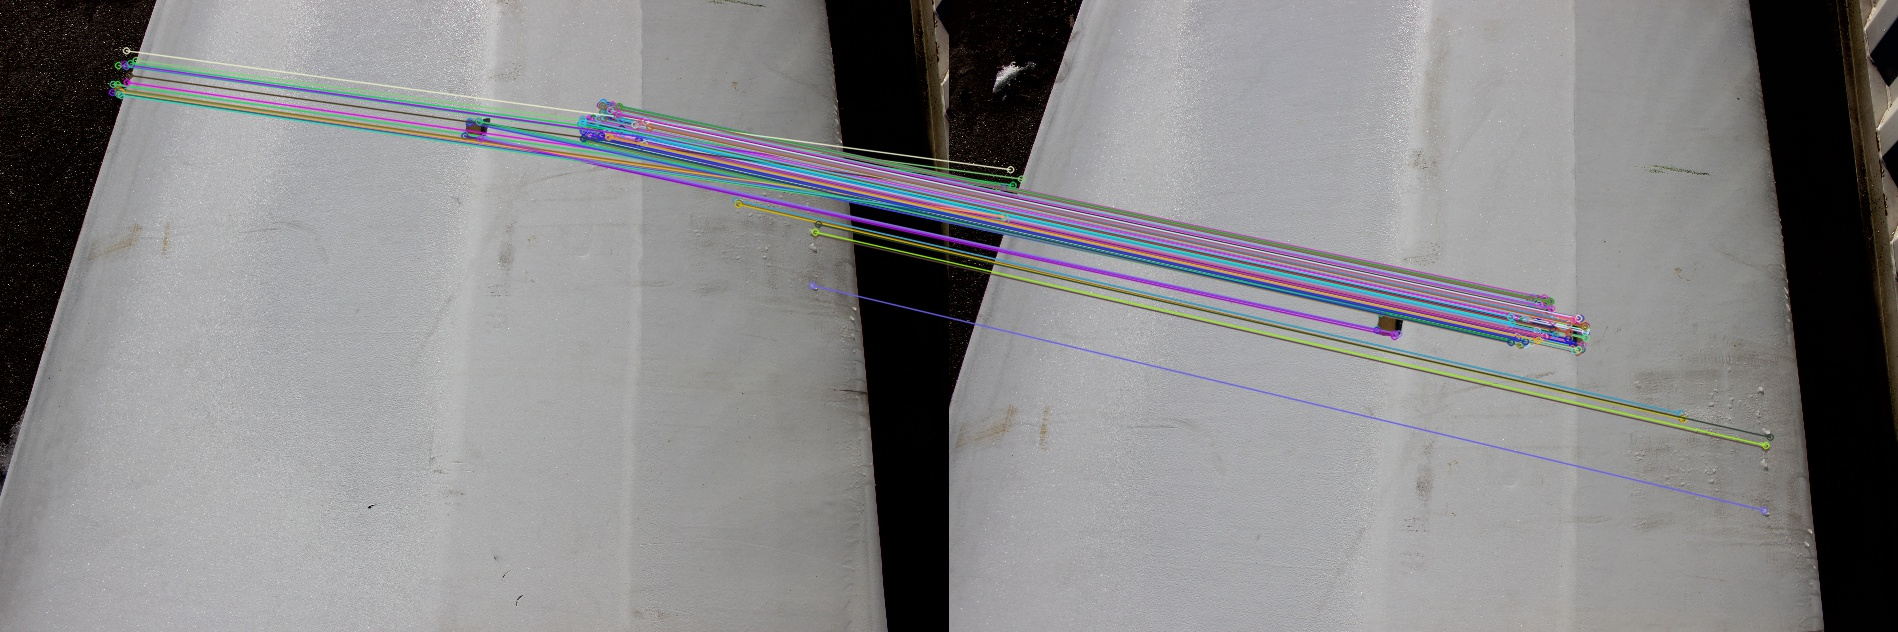
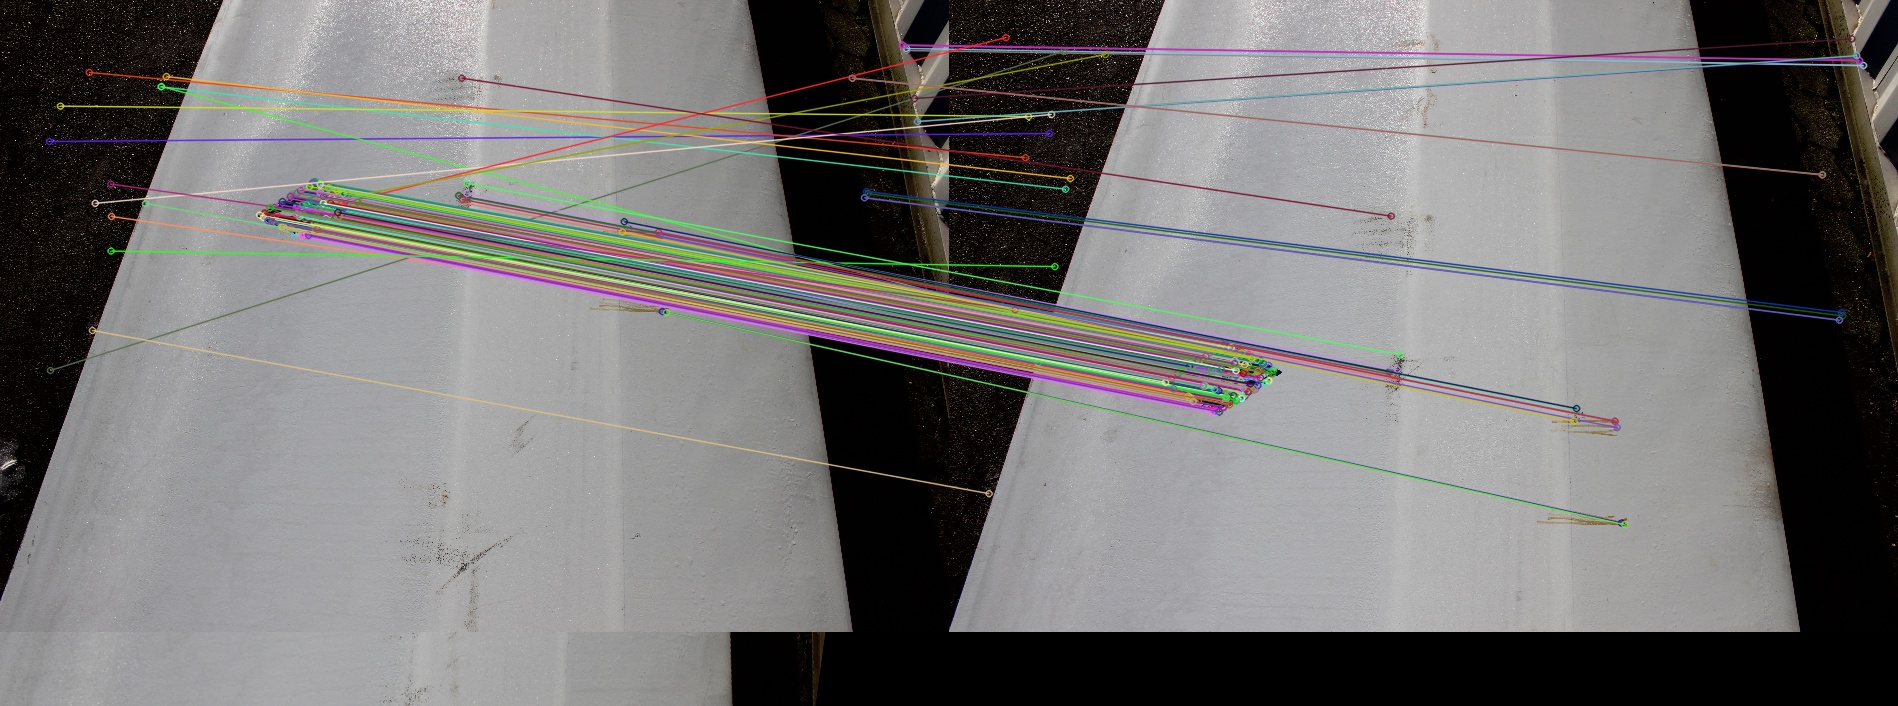
Loop for the images
The loop works, but there is still something wrong in the warping that is cropping the pics.

diff --git a/opencv_image_stitching/image_stitching.cpp b/opencv_image_stitching/image_stitching.cpp
@@ -15,44 +15,91 @@ int main() {
 
 	CLOG("test");
 
-	/******************************************* Reader *******************************************/
-	
+	/**************************************** CONSTRUCTORS *****************************************/
+
+	//Undistorter undistorter;
+	FeatureFindMatch finder;
+	Warping warper;
+	Stitcher stitcher;
 	ImageReader image_reader;
+
+
+
+	/******************************************* READER *******************************************/
+	
 	vector<Mat> raw_images = image_reader.get_images();
 	
 
 
 	/**************************************** UNDISTORTION *****************************************/
 	
-	//Undistorter undistorter;
 	//vector<Mat> undist_images = undistorter.undistort_images(raw_images);
-	
-	
 
-	/****************************************** FEATURES *******************************************/
-	
-	FeatureFindMatch finder;
-	finder.find_features(raw_images);
-	MatchedKeyPoint matched_key_points = finder.get_matched_coordinates();
-	
-	Mat raw;
-	resize(raw_images[1], raw, cvSize(0, 0), 0.5, 0.5);
-	imshow("base image", raw);
-	/******************************************* WARPING *******************************************/
 
-	Warping warper;
-	Mat warpedImg = warper.warp(raw_images[0], matched_key_points);
 
-	Mat warp;
-	resize(warpedImg, warp, cvSize(0, 0), 0.5, 0.5);
-	imshow("warped image", warp);
-	/****************************************** Stitching *******************************************/
-
-	Stitcher stitcher;
-	Mat stitchedImg = stitcher.merging(raw_images[1], warpedImg);
+	/*************************************** STITCHING LOOP ****************************************/
 
 	Mat stitched;
-	resize(stitchedImg, stitched, cvSize(0, 0), 0.5, 0.5);
-	imshow("Stitched image", stitched);
+	Mat stitchedImg;
+
+	vector<Mat> images_to_stitch;
+	images_to_stitch.resize(2);
+	
+	for (size_t i = 0; i < 2; i++) {
+		images_to_stitch[i] = raw_images[i];
+	}
+
+	
+
+	for (size_t i = 0; i < raw_images.size() - 1; i++) {
+
+		/****************************************** FEATURES *******************************************/
+
+		finder.find_features(images_to_stitch);
+		MatchedKeyPoint matched_key_points = finder.get_matched_coordinates();
+
+		//Mat raw;
+		//resize(images_to_stitch[1], raw, cvSize(0, 0), 0.5, 0.5);
+		/*imshow("base image", raw);
+		WINPAUSE;*/
+
+
+
+		/******************************************* WARPING *******************************************/
+
+		Mat warpedImg = warper.warp(images_to_stitch[0], matched_key_points);
+
+		Mat warp;
+		resize(warpedImg, warp, cvSize(0, 0), 0.5, 0.5);
+		String name = "warped image." + i;
+		imshow(to_string(i) , warp);
+		//WINPAUSE;
+
+
+
+		/****************************************** STITCHING *******************************************/
+
+		stitchedImg = stitcher.merging(images_to_stitch[1], warpedImg);
+
+		cout << endl << "Iteration number: " << i << endl;
+		//WINPAUSE;
+
+		if (i < (raw_images.size() - 2)) {
+			cout << "I AM THE IF MOTHERFUCKER" << endl;
+			images_to_stitch[0] = stitchedImg;
+			images_to_stitch[1] = raw_images[i + 2];
+			//break;
+		}
+	}
+
+	Mat raw;
+	resize(raw_images[0], raw, cvSize(0, 0), 0.5, 0.5);
+	imshow("first image", raw);
+	/*resize(stitchedImg, stitched, cvSize(0, 0), 0.75, 0.75);
+	imshow("Stitched image", stitched);*/
+	//imshow("Stitched image", stitchedImg);
+	String output_location = "../opencv_image_stitching/Images/Results/test_2.jpg";
+	imwrite(output_location, stitchedImg);
+	cout << endl << "------------ MISSION COMPLETE ------------" << endl;
 	waitKey(0);
 }

diff --git a/opencv_image_stitching/FeatureFindMatch.cpp b/opencv_image_stitching/FeatureFindMatch.cpp
@@ -104,7 +104,8 @@ void FeatureFindMatch::match_features_(vector<Mat> inc_images, vector<ImageFeatu
 	//my_matches = pairwise_matches[1].matches;
 	my_matches = pairwise_matches.matches;
 
-	int threshold = setThreshold(my_matches, 0.25);
+	//int threshold = setThreshold(my_matches, 0.25);
+	int threshold = setThreshold(my_matches, 1);
 	for (size_t i = 0; i < my_matches.size(); i++) {
 
 		if (my_matches[i].distance < threshold)
@@ -114,7 +115,7 @@ void FeatureFindMatch::match_features_(vector<Mat> inc_images, vector<ImageFeatu
 	cout << "Good matches #:" << good_matches.size() << endl;
 	string good_matches_out = "Good Matches #: " + to_string(good_matches.size());
 	CLOG(good_matches_out, Verbosity::INFO);
-
+	
 	for (size_t i = 0; i < good_matches.size(); i++) {
 		string msg = "Matches distance : " + to_string(i) + to_string(good_matches[i].distance);
 		string msg1 = "Matches imgIdx: " + to_string(i) + to_string(good_matches[i].imgIdx);
@@ -216,7 +217,7 @@ void FeatureFindMatch::matchesDraw(Mat img_1, vector<KeyPoint> keypoints_1, Mat 
 	String output_location = "../opencv_image_stitching/Images/Results/test_1.jpg";
 	vector<char> mask(good_matches.size(), 1);
 	Mat output_img;
-
+	
 	try {
 		drawMatches(img_1, keypoints_1, img_2, keypoints_2, good_matches, output_img, Scalar::all(-1),
 			Scalar::all(-1), mask, DrawMatchesFlags::NOT_DRAW_SINGLE_POINTS);
@@ -229,7 +230,6 @@ void FeatureFindMatch::matchesDraw(Mat img_1, vector<KeyPoint> keypoints_1, Mat 
 	Mat outImg;
 	resize(output_img, outImg, cv::Size(), 1, 1);
 	//imshow("Matching", outImg);
-	waitKey(0);
 
 	imwrite(output_location, outImg);
 }
